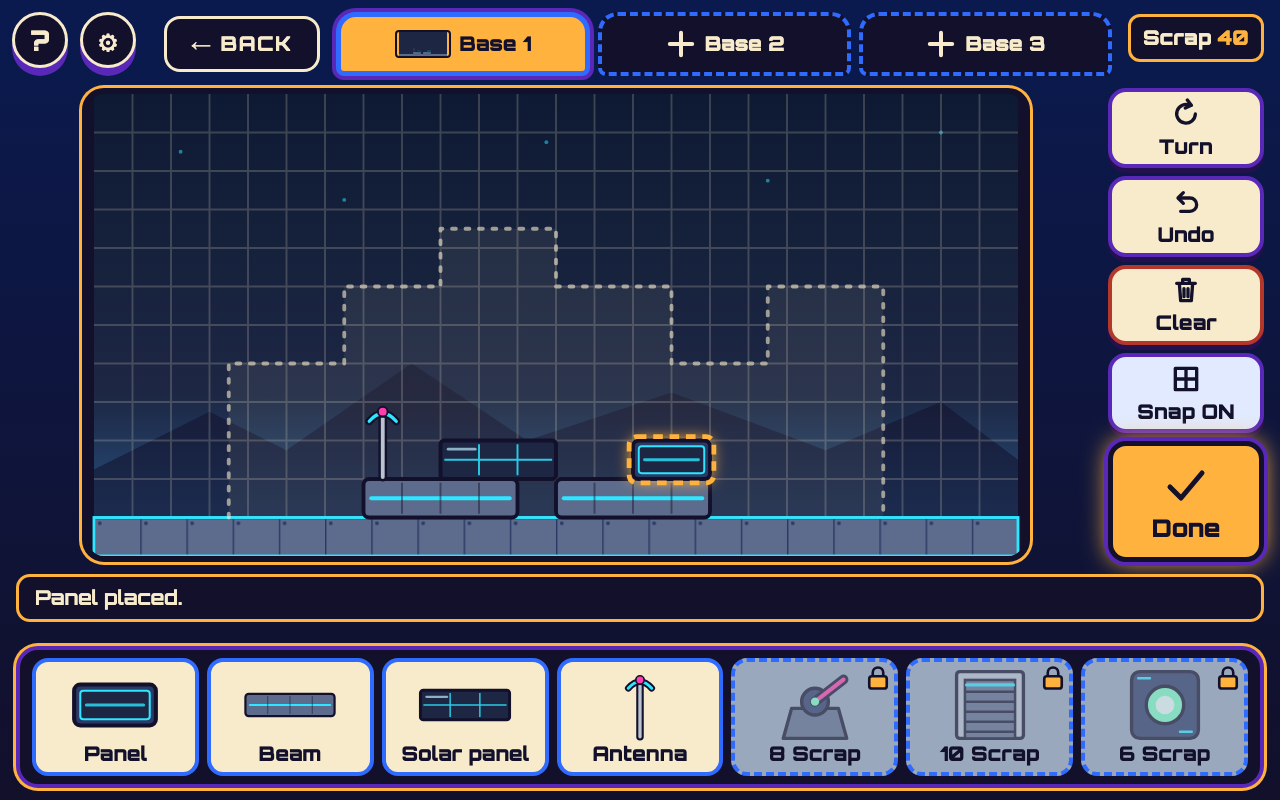
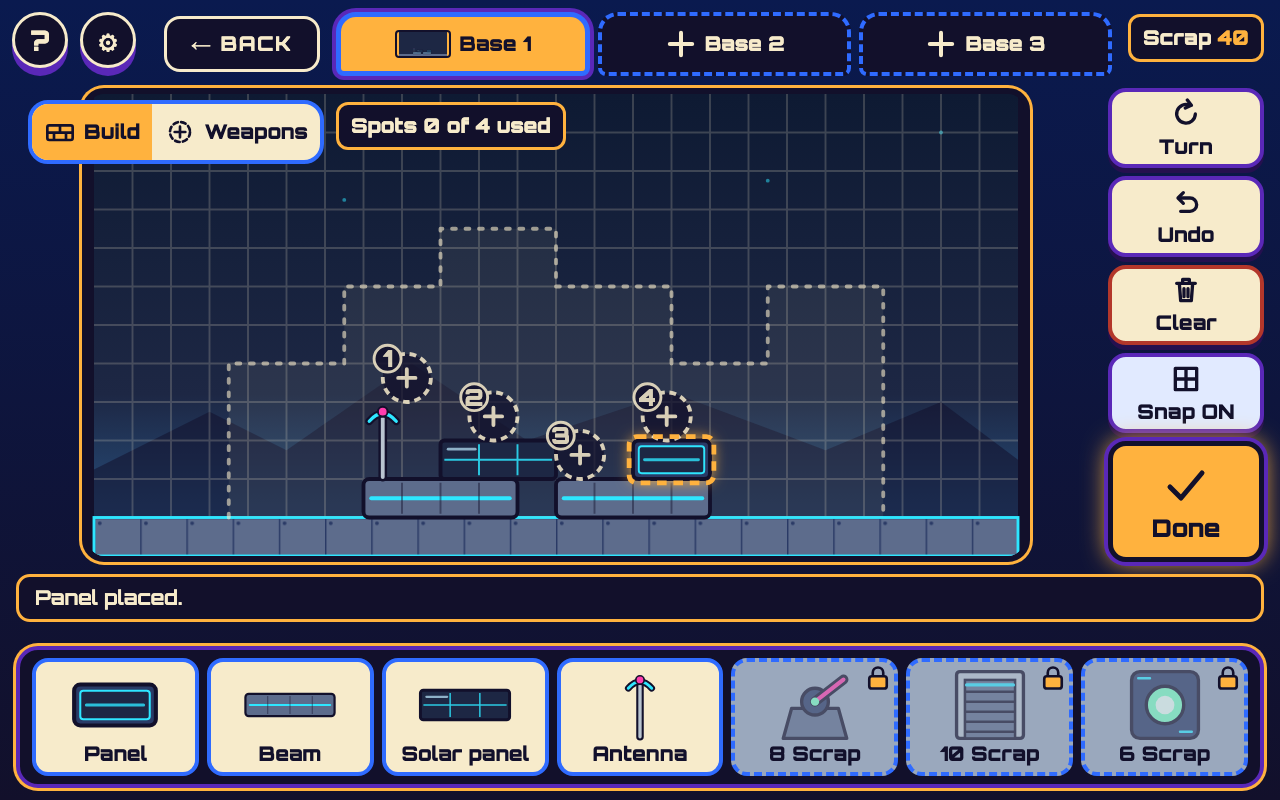
fix(builder): keep copy contract and CSS tokens green for weapon spots

Changed region(s): [[0.0, 0.125, 0.4375, 0.2188], [0.2812, 0.4062, 0.4688, 0.625], [0.5, 0.4688, 0.5312, 0.5625]]

diff --git a/src/styles/baseBuilder.css b/src/styles/baseBuilder.css
@@ -415,11 +415,10 @@
 }
 
 .tc-bb-weapons {
-  --tc-bb-panel-top: var(--tc-s-3);
   position: absolute;
-  top: var(--tc-bb-panel-top);
+  top: var(--tc-s-3);
   width: min(264px, 34%);
-  max-height: calc(100% - var(--tc-bb-panel-top) - var(--tc-s-3));
+  max-height: calc(100% - var(--tc-s-3) * 2);
   z-index: 2;
   display: flex;
   flex-direction: column;
@@ -436,7 +435,8 @@
 }
 /* On the left it starts under the mode switch, which sits at the top left. */
 .tc-bb-weapons[data-side='left'] {
-  --tc-bb-panel-top: calc(var(--tc-s-3) + 72px);
+  top: calc(var(--tc-s-3) + 72px);
+  max-height: calc(100% - var(--tc-s-3) * 2 - 72px);
   left: var(--tc-s-3);
 }
 .tc-bb-weapons-title {

diff --git a/src/data/copy.ts b/src/data/copy.ts
@@ -488,7 +488,7 @@ export const BUILDER_COPY = {
   onThisSpot: 'On this spot',
   clearSpot: 'Clear spot',
   clearSpotLabel: (n: number): string => `Clear spot ${n}`,
-  spotLabel: (n: number, weapon: string | null, selected: boolean): string =>
+  spotLabel: (weapon: string | null, n: number, selected: boolean): string =>
     `Spot ${n}, ${weapon ? weapon.toLowerCase() : 'empty'}${selected ? ', selected' : ''}`,
   weaponLabel: (name: string, onSpot: boolean): string =>
     onSpot ? `${name}, on this spot` : name,

diff --git a/src/ui/baseBuilderScreen.ts b/src/ui/baseBuilderScreen.ts
@@ -496,7 +496,7 @@ export function showBaseBuilder(ctx: UiCtx, options: BuilderOptions): Promise<vo
           doc,
           spotsMarkup(
             resolved,
-            (sp, on) => BUILDER_COPY.spotLabel(sp.index + 1, spotName(sp.index), on),
+            (sp, on) => BUILDER_COPY.spotLabel(spotName(sp.index), sp.index + 1, on),
             live ? selSpot : null,
             live,
             hitR,
